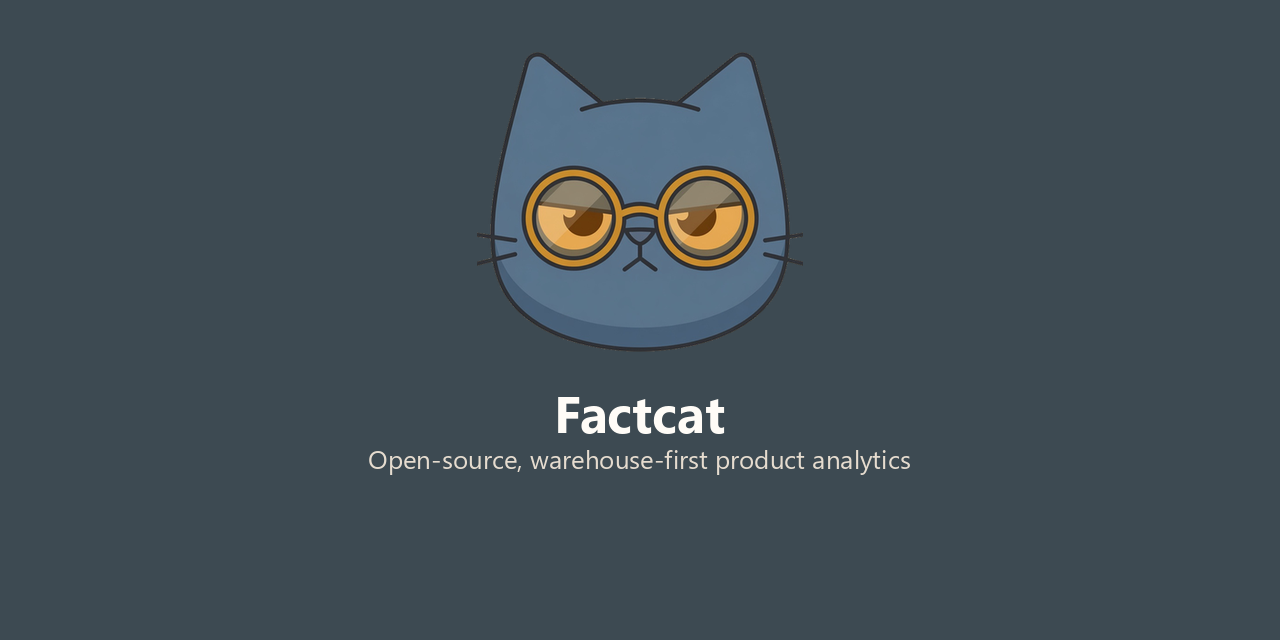
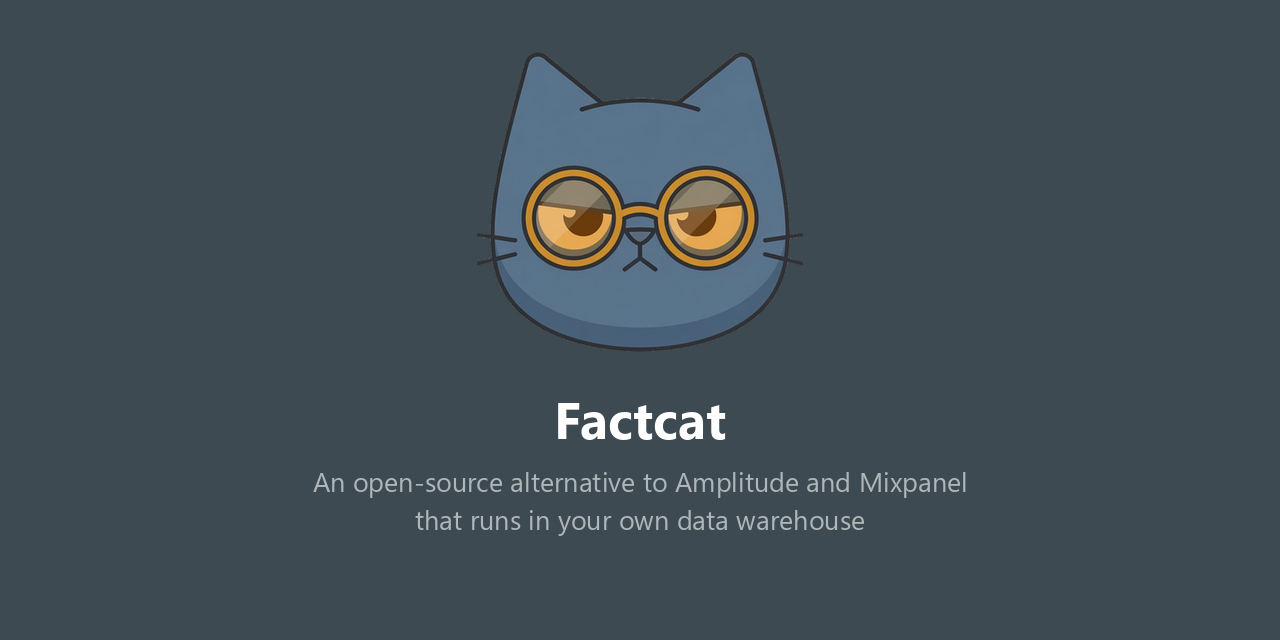
docs(pitch): position as an Amplitude and Mixpanel alternative
One pitch everywhere: an open-source alternative to Amplitude and
Mixpanel that runs in your own data warehouse - no SDK, no ingestion,
nothing hosted. Applied to the README lede, the engine README (PyPI
page), the pyproject description, the package docstring, the site
builder PITCH fallback, and the social-preview image. Comparative
alternative-to naming only; no vendor branding claimed.

Changed region(s): [[0.25, 0.625, 0.75, 0.8438]]

diff --git a/.github/scripts/build_pages.py b/.github/scripts/build_pages.py
@@ -26,7 +26,11 @@ DOMAIN = "factcat.dev"
 SITE_ORIGIN = f"https://{DOMAIN}"
 GITHUB = "https://github.com/gordonkjlee/factcat"
 PYPI = "https://pypi.org/project/factcat/"
-PITCH = "Open-source, warehouse-first product analytics."
+PITCH = (
+    "An open-source alternative to Amplitude and Mixpanel that runs in your own "
+    "data warehouse. Factcat generates SQL and runs it in your BigQuery or "
+    "Snowflake — no SDK, no ingestion, nothing hosted."
+)
 MARKDOWN_EXTENSIONS = ("fenced_code", "tables")
 
 # Repo-relative source → published path. Anything else that exists in the

diff --git a/packages/engine/tests/test_app.py b/packages/engine/tests/test_app.py
@@ -934,7 +934,7 @@ def test_chrome_uses_tokens_and_empty_state(monkeypatch, tmp_path):
 def test_readme_keeps_slogan_and_points_at_the_mark():
     readme = Path(APP_DIR).resolve().parents[2] / "README.md"
     text = readme.read_text(encoding="utf-8")
-    assert "Open-source, warehouse-first product analytics." in text
+    assert "An open-source alternative to Amplitude and Mixpanel" in text
     assert "packages/engine/factcat_app/static/waiting.jpg" in text
     assert "one wide events table" in text
     assert "setup-bigquery.md" in text

diff --git a/.github/scripts/test_build_pages.py b/.github/scripts/test_build_pages.py
@@ -42,7 +42,8 @@ def test_builds_site_from_readme(tmp_path: Path):
 
     index = (site / "index.html").read_text(encoding="utf-8")
     assert "<title>Factcat</title>" in index
-    assert "Open-source, warehouse-first product analytics." in index
+    assert "An open-source alternative to Amplitude and Mixpanel" in index
+    assert "no SDK, no ingestion, nothing hosted." in index
     assert "pip install factcat" in index
     assert "https://github.com/gordonkjlee/factcat" in index
     assert "https://pypi.org/project/factcat/" in index

diff --git a/packages/engine/factcat/__init__.py b/packages/engine/factcat/__init__.py
@@ -1,4 +1,4 @@
-"""Factcat — open-source, warehouse-first product analytics.
+"""Factcat — open-source alternative to Amplitude and Mixpanel, in your own warehouse.
 
     from factcat import EventsSpec, events_sql, RetentionSpec, retention_sql
 

diff --git a/packages/engine/README.md b/packages/engine/README.md
@@ -1,6 +1,8 @@
 # factcat
 
-Open-source, warehouse-first product analytics.
+An open-source alternative to Amplitude and Mixpanel that runs in your own data
+warehouse. Factcat generates SQL and runs it in your BigQuery or Snowflake —
+no SDK, no ingestion, nothing hosted.
 
 Every other product analytics tool hard-codes `entity = user`, `period = a calendar bucket`,
 and `retained = did any event`. Real definitions violate all three:

diff --git a/README.md b/README.md
@@ -2,7 +2,9 @@
 
 <img src="packages/engine/factcat_app/static/waiting.jpg" width="200" alt="Factcat">
 
-Open-source, warehouse-first product analytics.
+An open-source alternative to Amplitude and Mixpanel that runs in your own data
+warehouse. Factcat generates SQL and runs it in your BigQuery or Snowflake —
+no SDK, no ingestion, nothing hosted.
 
 ## The problem
 
